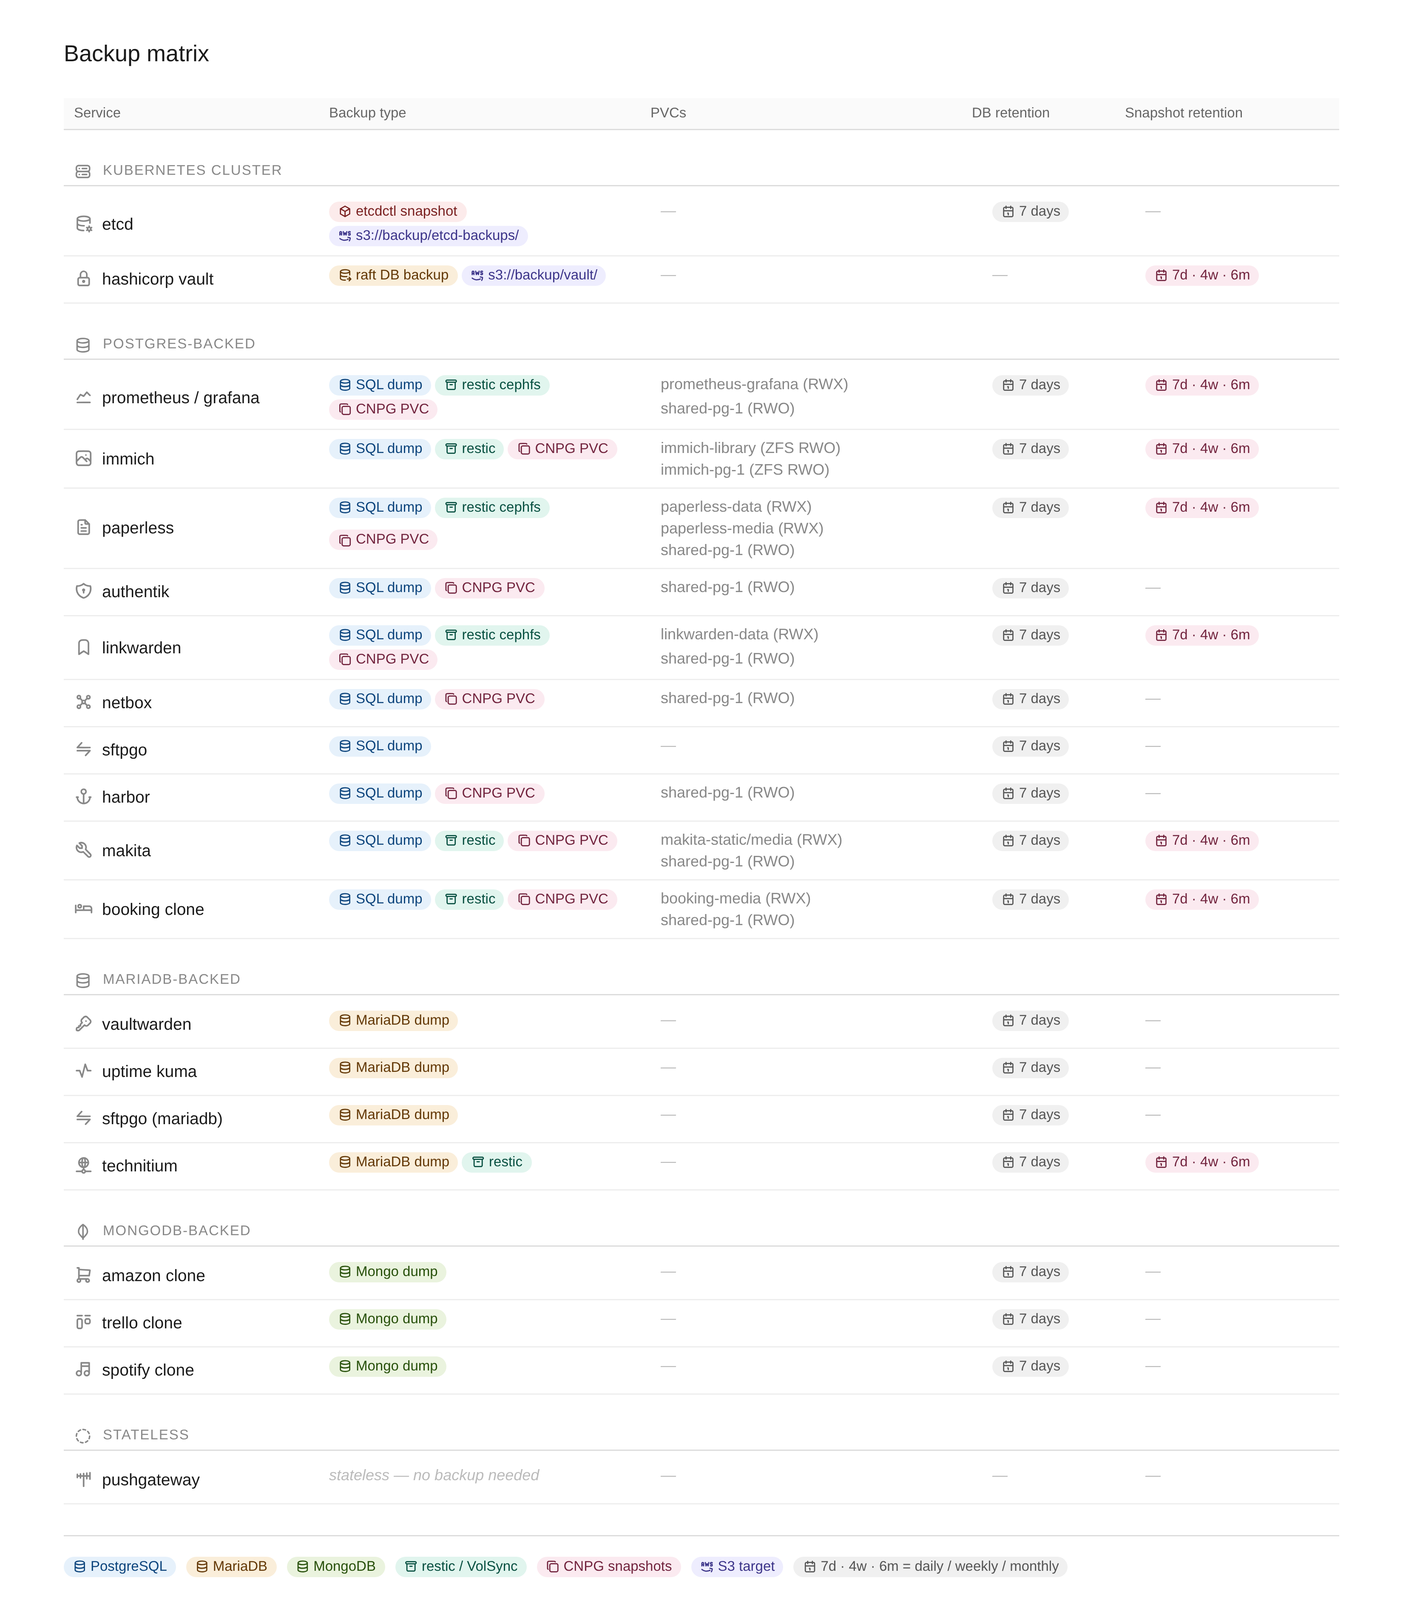
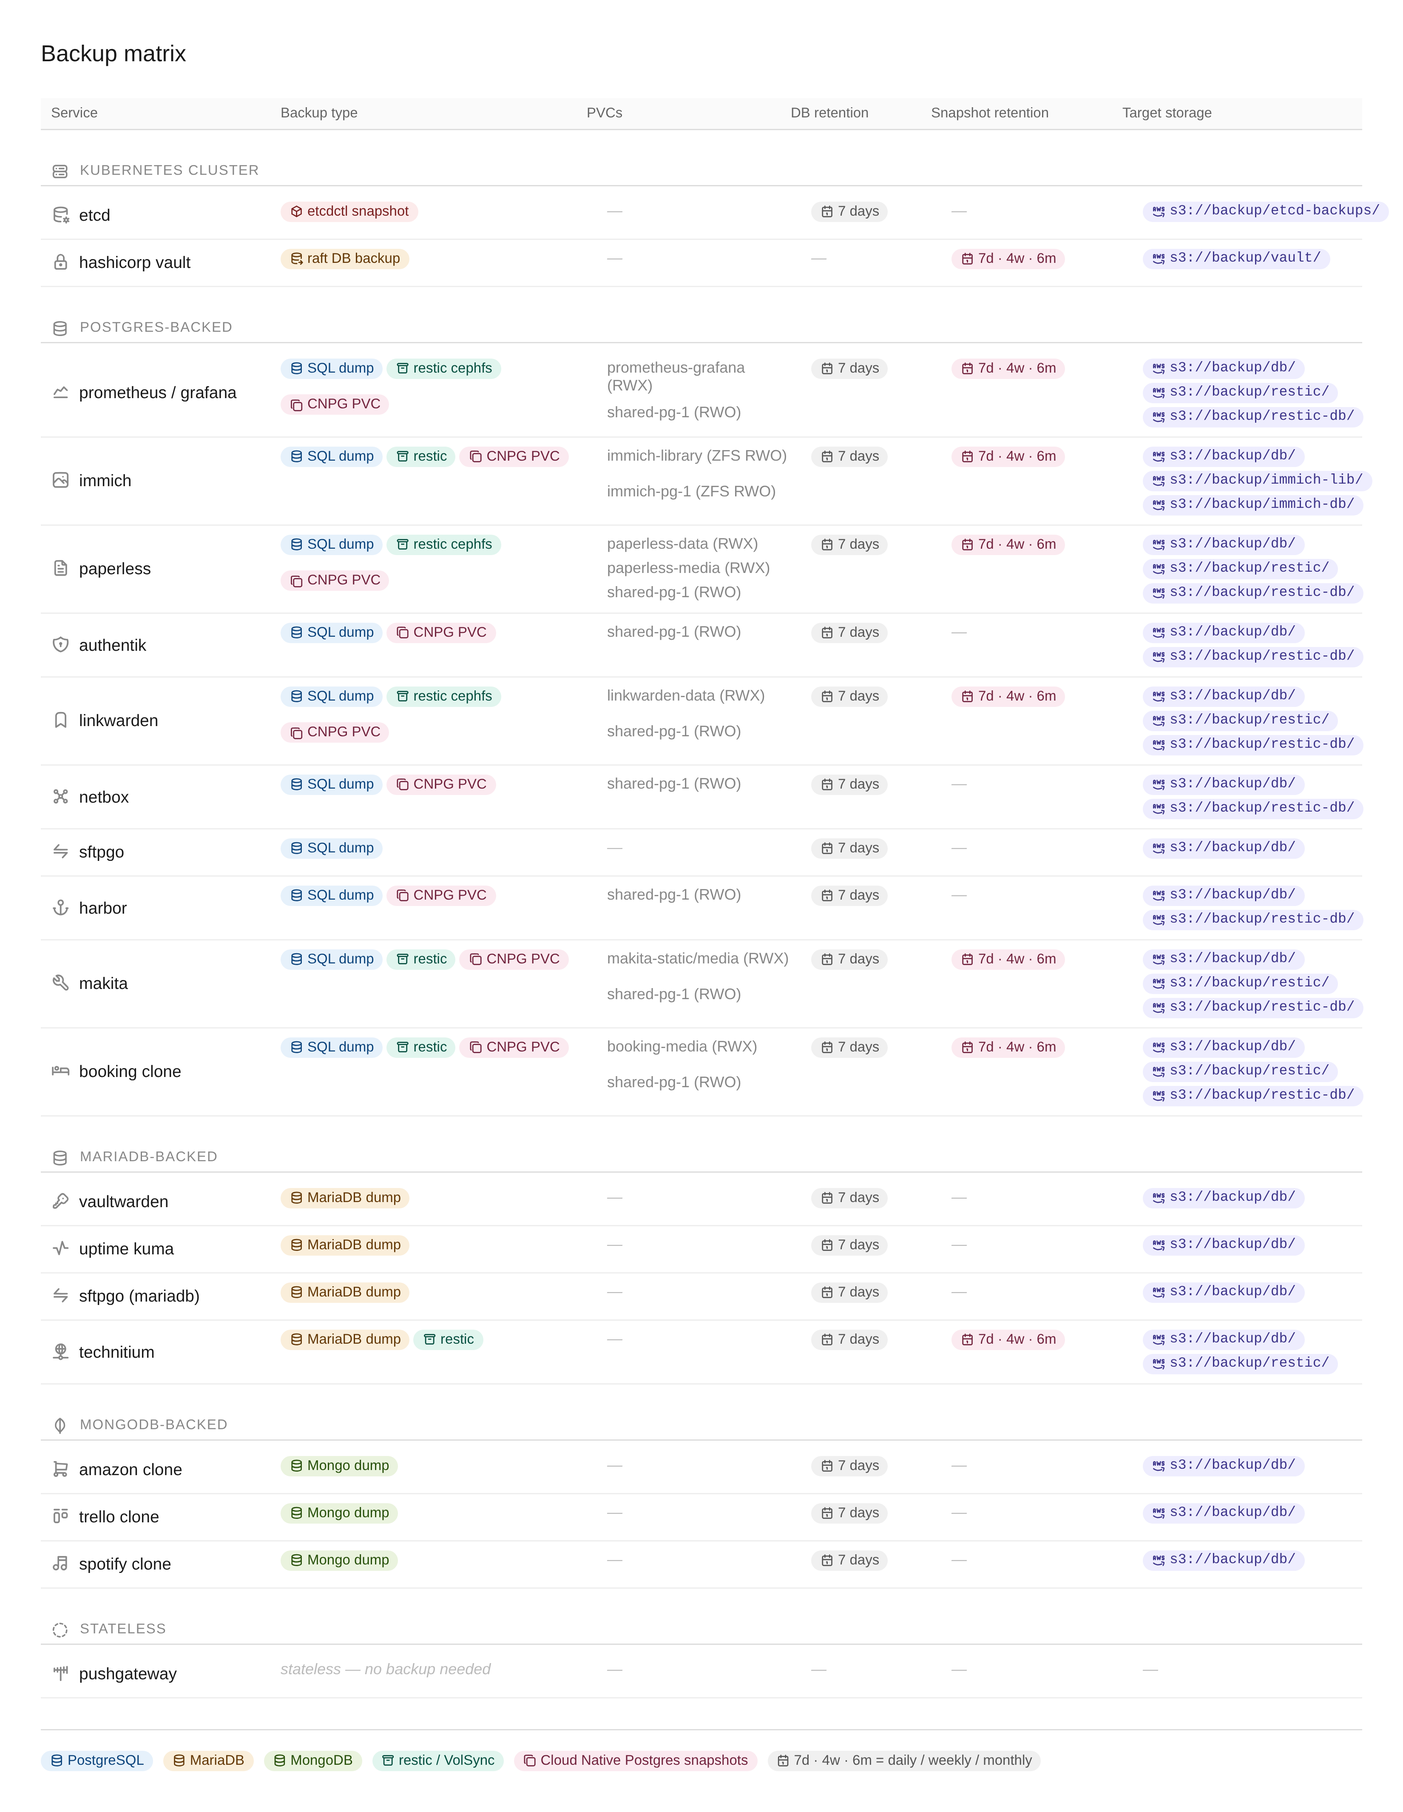
better readme

diff --git a/backup-matrix/backup-matrix.html b/backup-matrix/backup-matrix.html
@@ -8,10 +8,10 @@
 <style>
   * { box-sizing: border-box; margin: 0; padding: 0; }
   body { background: #fff; color: #1a1a1a; font-family: -apple-system, BlinkMacSystemFont, 'Segoe UI', sans-serif; font-size: 13px; padding: 2rem; }
-  .bm { max-width: 1000px; margin: 0 auto; }
+  .bm { max-width: 1200px; margin: 0 auto; }
   h1 { font-size: 18px; font-weight: 500; margin-bottom: 1.5rem; color: #1a1a1a; }
-  .col-head { display: grid; grid-template-columns: 200px 1fr 1fr 120px 160px; gap: 0; padding: 6px 8px; font-size: 11px; font-weight: 500; color: #666; border-bottom: 1px solid #ddd; background: #fafafa; }
-  .row { display: grid; grid-template-columns: 200px 1fr 1fr 120px 160px; gap: 0; border-bottom: 0.5px solid #eee; }
+  .col-head { display: grid; grid-template-columns: 180px 1fr 160px 110px 150px 180px; gap: 0; padding: 6px 8px; font-size: 11px; font-weight: 500; color: #666; border-bottom: 1px solid #ddd; background: #fafafa; }
+  .row { display: grid; grid-template-columns: 180px 1fr 160px 110px 150px 180px; gap: 0; border-bottom: 0.5px solid #eee; }
   .row:hover { background: #f9f9f9; }
   .section-header { display: flex; align-items: center; gap: 8px; padding: 6px 8px 4px; margin: 1.2rem 0 0.3rem; border-bottom: 0.5px solid #ddd; font-size: 11px; font-weight: 500; text-transform: uppercase; letter-spacing: 0.06em; color: #888; }
   .section-header i { font-size: 14px; }
@@ -23,12 +23,13 @@
   .tag-pg      { background: #E6F1FB; color: #0C447C; }
   .tag-maria   { background: #FAEEDA; color: #633806; }
   .tag-mongo   { background: #EAF3DE; color: #27500A; }
-  .tag-s3      { background: #EEEDFE; color: #3C3489; }
   .tag-restic  { background: #E1F5EE; color: #085041; }
   .tag-snap    { background: #FBEAF0; color: #72243E; }
   .tag-etcd    { background: #FCEBEB; color: #791F1F; }
   .tag-vault   { background: #FAEEDA; color: #633806; }
   .tag-neutral { background: #f0f0f0; color: #555; }
+  .s3path { font-family: 'SFMono-Regular', Consolas, 'Liberation Mono', Menlo, monospace; font-size: 11px; color: #3C3489; background: #EEEDFE; padding: 2px 7px; border-radius: 10px; white-space: nowrap; display: inline-flex; align-items: center; gap: 3px; }
+  .s3path i { font-size: 11px; }
   .muted  { color: #888; font-size: 12px; width: 100%; }
   .none   { color: #bbb; font-style: italic; font-size: 12px; }
   .legend { display: flex; flex-wrap: wrap; gap: 8px; margin-top: 1.5rem; padding-top: 1rem; border-top: 0.5px solid #ddd; }
@@ -44,24 +45,27 @@
     <div>PVCs</div>
     <div>DB retention</div>
     <div>Snapshot retention</div>
+    <div>Target storage</div>
   </div>
 
   <div class="section-header"><i class="ti ti-server-2"></i> Kubernetes cluster</div>
 
   <div class="row">
     <div class="cell svc"><i class="ti ti-database-cog"></i> etcd</div>
-    <div class="cell"><span class="tag tag-etcd"><i class="ti ti-box"></i>etcdctl snapshot</span><span class="tag tag-s3"><i class="ti ti-brand-aws"></i>s3://backup/etcd-backups/</span></div>
+    <div class="cell"><span class="tag tag-etcd"><i class="ti ti-box"></i>etcdctl snapshot</span></div>
     <div class="cell"><span class="none">—</span></div>
     <div class="cell"><span class="tag tag-neutral"><i class="ti ti-calendar"></i>7 days</span></div>
     <div class="cell"><span class="none">—</span></div>
+    <div class="cell"><span class="s3path"><i class="ti ti-brand-aws"></i>s3://backup/etcd-backups/</span></div>
   </div>
 
   <div class="row">
     <div class="cell svc"><i class="ti ti-lock"></i> hashicorp vault</div>
-    <div class="cell"><span class="tag tag-vault"><i class="ti ti-database-export"></i>raft DB backup</span><span class="tag tag-s3"><i class="ti ti-brand-aws"></i>s3://backup/vault/</span></div>
+    <div class="cell"><span class="tag tag-vault"><i class="ti ti-database-export"></i>raft DB backup</span></div>
     <div class="cell"><span class="none">—</span></div>
     <div class="cell"><span class="none">—</span></div>
     <div class="cell"><span class="tag tag-snap"><i class="ti ti-calendar"></i>7d · 4w · 6m</span></div>
+    <div class="cell"><span class="s3path"><i class="ti ti-brand-aws"></i>s3://backup/vault/</span></div>
   </div>
 
   <div class="section-header"><i class="ti ti-database"></i> Postgres-backed</div>
@@ -72,6 +76,7 @@
     <div class="cell"><span class="muted">prometheus-grafana (RWX)</span><span class="muted">shared-pg-1 (RWO)</span></div>
     <div class="cell"><span class="tag tag-neutral"><i class="ti ti-calendar"></i>7 days</span></div>
     <div class="cell"><span class="tag tag-snap"><i class="ti ti-calendar"></i>7d · 4w · 6m</span></div>
+    <div class="cell"><span class="s3path"><i class="ti ti-brand-aws"></i>s3://backup/db/</span><span class="s3path"><i class="ti ti-brand-aws"></i>s3://backup/restic/</span><span class="s3path"><i class="ti ti-brand-aws"></i>s3://backup/restic-db/</span></div>
   </div>
 
   <div class="row">
@@ -80,6 +85,7 @@
     <div class="cell"><span class="muted">immich-library (ZFS RWO)</span><span class="muted">immich-pg-1 (ZFS RWO)</span></div>
     <div class="cell"><span class="tag tag-neutral"><i class="ti ti-calendar"></i>7 days</span></div>
     <div class="cell"><span class="tag tag-snap"><i class="ti ti-calendar"></i>7d · 4w · 6m</span></div>
+    <div class="cell"><span class="s3path"><i class="ti ti-brand-aws"></i>s3://backup/db/</span><span class="s3path"><i class="ti ti-brand-aws"></i>s3://backup/immich-lib/</span><span class="s3path"><i class="ti ti-brand-aws"></i>s3://backup/immich-db/</span></div>
   </div>
 
   <div class="row">
@@ -88,6 +94,7 @@
     <div class="cell"><span class="muted">paperless-data (RWX)</span><span class="muted">paperless-media (RWX)</span><span class="muted">shared-pg-1 (RWO)</span></div>
     <div class="cell"><span class="tag tag-neutral"><i class="ti ti-calendar"></i>7 days</span></div>
     <div class="cell"><span class="tag tag-snap"><i class="ti ti-calendar"></i>7d · 4w · 6m</span></div>
+    <div class="cell"><span class="s3path"><i class="ti ti-brand-aws"></i>s3://backup/db/</span><span class="s3path"><i class="ti ti-brand-aws"></i>s3://backup/restic/</span><span class="s3path"><i class="ti ti-brand-aws"></i>s3://backup/restic-db/</span></div>
   </div>
 
   <div class="row">
@@ -96,6 +103,7 @@
     <div class="cell"><span class="muted">shared-pg-1 (RWO)</span></div>
     <div class="cell"><span class="tag tag-neutral"><i class="ti ti-calendar"></i>7 days</span></div>
     <div class="cell"><span class="none">—</span></div>
+    <div class="cell"><span class="s3path"><i class="ti ti-brand-aws"></i>s3://backup/db/</span><span class="s3path"><i class="ti ti-brand-aws"></i>s3://backup/restic-db/</span></div>
   </div>
 
   <div class="row">
@@ -104,6 +112,7 @@
     <div class="cell"><span class="muted">linkwarden-data (RWX)</span><span class="muted">shared-pg-1 (RWO)</span></div>
     <div class="cell"><span class="tag tag-neutral"><i class="ti ti-calendar"></i>7 days</span></div>
     <div class="cell"><span class="tag tag-snap"><i class="ti ti-calendar"></i>7d · 4w · 6m</span></div>
+    <div class="cell"><span class="s3path"><i class="ti ti-brand-aws"></i>s3://backup/db/</span><span class="s3path"><i class="ti ti-brand-aws"></i>s3://backup/restic/</span><span class="s3path"><i class="ti ti-brand-aws"></i>s3://backup/restic-db/</span></div>
   </div>
 
   <div class="row">
@@ -112,6 +121,7 @@
     <div class="cell"><span class="muted">shared-pg-1 (RWO)</span></div>
     <div class="cell"><span class="tag tag-neutral"><i class="ti ti-calendar"></i>7 days</span></div>
     <div class="cell"><span class="none">—</span></div>
+    <div class="cell"><span class="s3path"><i class="ti ti-brand-aws"></i>s3://backup/db/</span><span class="s3path"><i class="ti ti-brand-aws"></i>s3://backup/restic-db/</span></div>
   </div>
 
   <div class="row">
@@ -120,6 +130,7 @@
     <div class="cell"><span class="none">—</span></div>
     <div class="cell"><span class="tag tag-neutral"><i class="ti ti-calendar"></i>7 days</span></div>
     <div class="cell"><span class="none">—</span></div>
+    <div class="cell"><span class="s3path"><i class="ti ti-brand-aws"></i>s3://backup/db/</span></div>
   </div>
 
   <div class="row">
@@ -128,6 +139,7 @@
     <div class="cell"><span class="muted">shared-pg-1 (RWO)</span></div>
     <div class="cell"><span class="tag tag-neutral"><i class="ti ti-calendar"></i>7 days</span></div>
     <div class="cell"><span class="none">—</span></div>
+    <div class="cell"><span class="s3path"><i class="ti ti-brand-aws"></i>s3://backup/db/</span><span class="s3path"><i class="ti ti-brand-aws"></i>s3://backup/restic-db/</span></div>
   </div>
 
   <div class="row">
@@ -136,6 +148,7 @@
     <div class="cell"><span class="muted">makita-static/media (RWX)</span><span class="muted">shared-pg-1 (RWO)</span></div>
     <div class="cell"><span class="tag tag-neutral"><i class="ti ti-calendar"></i>7 days</span></div>
     <div class="cell"><span class="tag tag-snap"><i class="ti ti-calendar"></i>7d · 4w · 6m</span></div>
+    <div class="cell"><span class="s3path"><i class="ti ti-brand-aws"></i>s3://backup/db/</span><span class="s3path"><i class="ti ti-brand-aws"></i>s3://backup/restic/</span><span class="s3path"><i class="ti ti-brand-aws"></i>s3://backup/restic-db/</span></div>
   </div>
 
   <div class="row">
@@ -144,6 +157,7 @@
     <div class="cell"><span class="muted">booking-media (RWX)</span><span class="muted">shared-pg-1 (RWO)</span></div>
     <div class="cell"><span class="tag tag-neutral"><i class="ti ti-calendar"></i>7 days</span></div>
     <div class="cell"><span class="tag tag-snap"><i class="ti ti-calendar"></i>7d · 4w · 6m</span></div>
+    <div class="cell"><span class="s3path"><i class="ti ti-brand-aws"></i>s3://backup/db/</span><span class="s3path"><i class="ti ti-brand-aws"></i>s3://backup/restic/</span><span class="s3path"><i class="ti ti-brand-aws"></i>s3://backup/restic-db/</span></div>
   </div>
 
   <div class="section-header"><i class="ti ti-database"></i> MariaDB-backed</div>
@@ -154,6 +168,7 @@
     <div class="cell"><span class="none">—</span></div>
     <div class="cell"><span class="tag tag-neutral"><i class="ti ti-calendar"></i>7 days</span></div>
     <div class="cell"><span class="none">—</span></div>
+    <div class="cell"><span class="s3path"><i class="ti ti-brand-aws"></i>s3://backup/db/</span></div>
   </div>
 
   <div class="row">
@@ -162,6 +177,7 @@
     <div class="cell"><span class="none">—</span></div>
     <div class="cell"><span class="tag tag-neutral"><i class="ti ti-calendar"></i>7 days</span></div>
     <div class="cell"><span class="none">—</span></div>
+    <div class="cell"><span class="s3path"><i class="ti ti-brand-aws"></i>s3://backup/db/</span></div>
   </div>
 
   <div class="row">
@@ -170,6 +186,7 @@
     <div class="cell"><span class="none">—</span></div>
     <div class="cell"><span class="tag tag-neutral"><i class="ti ti-calendar"></i>7 days</span></div>
     <div class="cell"><span class="none">—</span></div>
+    <div class="cell"><span class="s3path"><i class="ti ti-brand-aws"></i>s3://backup/db/</span></div>
   </div>
 
   <div class="row">
@@ -178,6 +195,7 @@
     <div class="cell"><span class="none">—</span></div>
     <div class="cell"><span class="tag tag-neutral"><i class="ti ti-calendar"></i>7 days</span></div>
     <div class="cell"><span class="tag tag-snap"><i class="ti ti-calendar"></i>7d · 4w · 6m</span></div>
+    <div class="cell"><span class="s3path"><i class="ti ti-brand-aws"></i>s3://backup/db/</span><span class="s3path"><i class="ti ti-brand-aws"></i>s3://backup/restic/</span></div>
   </div>
 
   <div class="section-header"><i class="ti ti-brand-mongodb"></i> MongoDB-backed</div>
@@ -188,6 +206,7 @@
     <div class="cell"><span class="none">—</span></div>
     <div class="cell"><span class="tag tag-neutral"><i class="ti ti-calendar"></i>7 days</span></div>
     <div class="cell"><span class="none">—</span></div>
+    <div class="cell"><span class="s3path"><i class="ti ti-brand-aws"></i>s3://backup/db/</span></div>
   </div>
 
   <div class="row">
@@ -196,6 +215,7 @@
     <div class="cell"><span class="none">—</span></div>
     <div class="cell"><span class="tag tag-neutral"><i class="ti ti-calendar"></i>7 days</span></div>
     <div class="cell"><span class="none">—</span></div>
+    <div class="cell"><span class="s3path"><i class="ti ti-brand-aws"></i>s3://backup/db/</span></div>
   </div>
 
   <div class="row">
@@ -204,6 +224,7 @@
     <div class="cell"><span class="none">—</span></div>
     <div class="cell"><span class="tag tag-neutral"><i class="ti ti-calendar"></i>7 days</span></div>
     <div class="cell"><span class="none">—</span></div>
+    <div class="cell"><span class="s3path"><i class="ti ti-brand-aws"></i>s3://backup/db/</span></div>
   </div>
 
   <div class="section-header"><i class="ti ti-circle-dashed"></i> Stateless</div>
@@ -214,6 +235,7 @@
     <div class="cell"><span class="none">—</span></div>
     <div class="cell"><span class="none">—</span></div>
     <div class="cell"><span class="none">—</span></div>
+    <div class="cell"><span class="none">—</span></div>
   </div>
 
   <div class="legend">
@@ -221,8 +243,7 @@
     <span class="tag tag-maria"><i class="ti ti-database"></i>MariaDB</span>
     <span class="tag tag-mongo"><i class="ti ti-database"></i>MongoDB</span>
     <span class="tag tag-restic"><i class="ti ti-archive"></i>restic / VolSync</span>
-    <span class="tag tag-snap"><i class="ti ti-copy"></i>CNPG snapshots</span>
-    <span class="tag tag-s3"><i class="ti ti-brand-aws"></i>S3 target</span>
+    <span class="tag tag-snap"><i class="ti ti-copy"></i>Cloud Native Postgres snapshots</span>
     <span class="tag tag-neutral"><i class="ti ti-calendar"></i>7d · 4w · 6m = daily / weekly / monthly</span>
   </div>
 </div>

diff --git a/README.md b/README.md
@@ -110,7 +110,7 @@ This is the repository I use to version control the kubernetes cluster I deploy 
 | <img src="./icons/kubernetes.svg" width="16"/> | **Makita** | Travel diary with S3-backed image storage |
 | <img src="./icons/kubernetes.svg" width="16"/> | **Portfolio** | Static personal website |
 | <img src="./icons/kubernetes.svg" width="16"/> | **HLS Streaming** | Live streaming via FFmpeg + HLS |
-
+---
 </details>
 
 ### Directory Helper
@@ -257,9 +257,9 @@ While most of my infrastructure and workloads are self-hosted I do rely upon the
 | Spotify family              | Podcast & music to keep afloat                                                                       | €21.99/month      |
 |                             |                                                                                                      | Total: ~€49/month |
 
+---
 </details>
 
----
 
 ### 💾 Backup Architecture
 
@@ -287,38 +287,12 @@ While most of my infrastructure and workloads are self-hosted I do rely upon the
 All backups are sent to the cloud based offsite VPS to an S3 storage hosted at hetzner on an ext4 luks encrypted partition
 
 
-| Service | Job type & name | PVC name | SQL/dump retention | PVC snapshot retention | Target storage |
-|---|---|---|---|---|---|
-| **Kubernetes cluster** | | | | | |
-| etcd |  etcdctl snapshot via cronjob to garage s3 | — | 7 days via script itself | | `s3://backup/etcd-backups/` |
-| hashicorp-vault |  backup of the secret manager's raft database | — | the last 7 daily snapshots, the last 4 weekly snapshots (one per week) and the last 6 monthly snapshots (one per month) | | `s3://backup/vault/` |
-| **Postgres-backed** | | | | | |
-| prometheus / grafana | postgres sql backup, cephfs via restic and cloud native postgres PVC backup | prometheus-grafana (RWX cephfs) and shared-pg-1 (rbd block RWO) | 7 days via bucket policy | the last 7 daily snapshots, the last 4 weekly snapshots (one per week) and the last 6 monthly snapshots (one per month)| `s3://backup/db/`, `s3://backup/restic/` (cephfs) and `s3://backup/restic-db/` (rbd block) |
-| immich | postgres sql backup, cephfs via restic and cloud native postgres PVC backup | immich-library (static PV RWO on zfs) and immich-pg-1 (static PV RWO on zfs) | 7 days via bucket policy | the last 7 daily snapshots, the last 4 weekly snapshots (one per week) and the last 6 monthly snapshots (one per month)| `s3://backup/db/`, `s3://backup/immich-lib/` and `s3:///backup/immich-db/` |
-| paperless | postgres sql backup, cephfs via restic and cloud native postgres PVC backup | paperless-data (RWX cephfs), paperless-media (RWX cephfs) and shared-pg-1 (rbd block RWO) | 7 days via bucket policy | the last 7 daily snapshots, the last 4 weekly snapshots (one per week) and the last 6 monthly snapshots (one per month)| `s3://backup/db/`, `s3://backup/restic/` (cephfs) and `s3://backup/restic-db/` (rbd block) |
-| authentik | postgres sql backup and cloud native postgres PVC backup | shared-pg-1 (rbd block RWO) | 7 days via bucket policy | | `s3://backup/db/` and `s3://backup/restic-db/` (rbd block) |
-| linkwarden |  postgres sql backup, cephfs via restic and cloud native postgres PVC backup | linkwarden-data (RWX cephfs) and shared-pg-1 (rbd block RWO) | 7 days via bucket policy | the last 7 daily snapshots, the last 4 weekly snapshots (one per week) and the last 6 monthly snapshots (one per month)| `s3://backup/db/`, `s3://backup/restic/` (cephfs) and `s3://backup/restic-db/` (rbd block) |
-| netbox | postgres sql backup and cloud native postgres PVC backup | shared-pg-1 (rbd block RWO) | 7 days via bucket policy | | `s3://backup/db/` and `s3://backup/restic-db/` (rbd block) |
-| sftpgo | postgres sql backup | — | 7 days via bucket policy | | `s3://backup/db/` |
-| harbor | postgres sql backup and cloud native postgres PVC backup | shared-pg-1 (rbd block RWO) | 7 days via bucket policy | | `s3://backup/db/` and `s3://backup/restic-db/` (rbd block) |
-| makita | postgres sql backup and cloud native postgres PVC backup | makita-static (cephfs RWX), makita-media (cephfs RWX) and shared-pg-1 (rbd block RWO) | 7 days via bucket policy | the last 7 daily snapshots, the last 4 weekly snapshots (one per week) and the last 6 monthly snapshots (one per month) | `s3://backup/db/`, `s3://backup/restic/` and `s3://backup/restic-db/` (rbd block) |
-| booking clone | postgres sql backup and cloud native postgres PVC backup | booking-media (cephfs RWX) and shared-pg-1 (rbd block RWO) | 7 days via bucket policy | the last 7 daily snapshots, the last 4 weekly snapshots (one per week) and the last 6 monthly snapshots (one per month) | `s3://backup/db/`, `s3://backup/restic/` and `s3://backup/restic-db/` (rbd block) |
-| **MariaDB-backed** | | | | | |
-| vaultwarden | mariadb sql backup | — | 7 days via bucket policy | | `s3://backup/db/` |
-| uptime kuma | mariadb sql backup | — | 7 days via bucket policy | | `s3://backup/db/` |
-| sftpgo      | mariadb sql backup | — | 7 days via bucket policy | | `s3://backup/db/` |
-| technitium  | mariadb sql backup | — | 7 days via bucket policy | the last 7 daily snapshots, the last 4 weekly snapshots (one per week) and the last 6 monthly snapshots (one per month) | `s3://backup/db/` and `s3://backup/restic/` |
-| **MongoDB-backed** | | | | | |
-| amazon clone | mongo backup | — | 7 days via bucket policy | | `s3://backup/db/` |
-| trello clone | mongo backup | — | 7 days via bucket policy | | `s3://backup/db/` |
-| spotify clone | mongo backup | — | 7 days via bucket policy | | `s3://backup/db/` |
-| **Stateless** | | | | | |
-| pushgateway | stateless no backup needed | — | — | | |
-
+![Backup Matrix](./backup-matrix/backup-matrix.png)
+---
 </details>
 
 
----
+
 
 ### 🔧 Hardware
 
